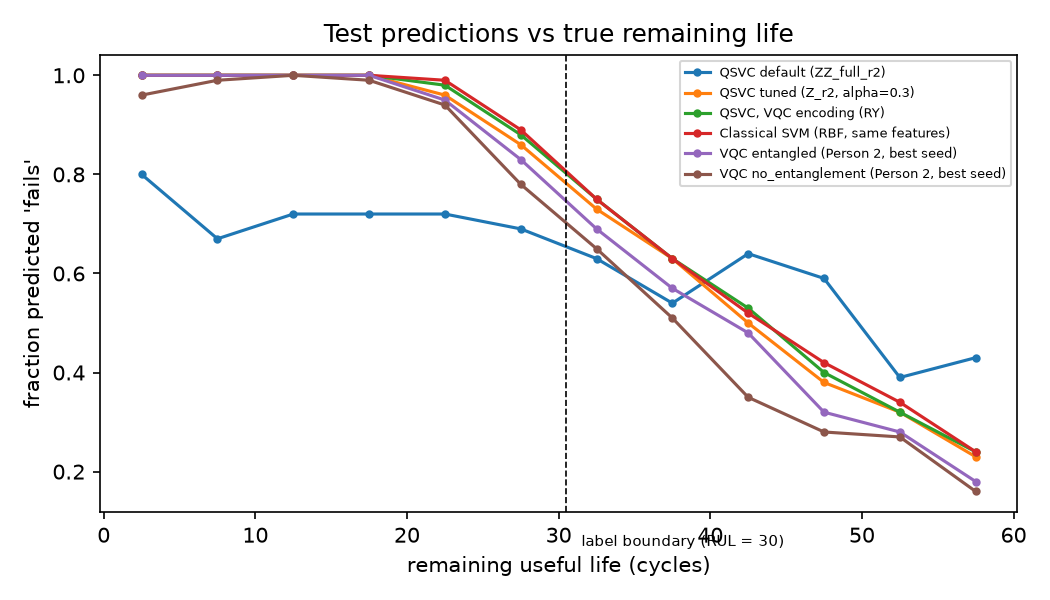
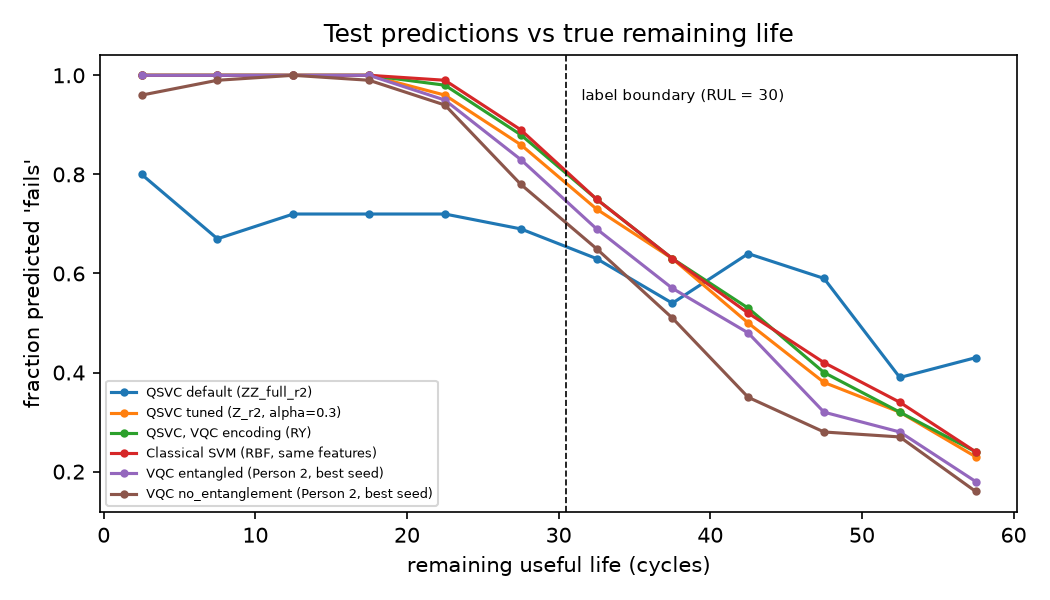
QSVC: review fixes before merge
- Fix overlapping figure labels; smaller kernel heatmap image.
- Avoid a duplicate comparison row if the tuned kernel is the RY encoding.
- Log a repo-relative output path instead of an absolute one.
- Note the VQC 5-seed means next to the best-seed rows.
- Re-ran with the pinned requirements.txt versions: all result CSVs identical.

Changed region(s): [[0.5486, 0.09, 0.9752, 0.33], [0.0914, 0.63, 0.4267, 0.87], [0.5486, 0.87, 0.701, 0.93]]

diff --git a/scripts/run_qsvc.py b/scripts/run_qsvc.py
@@ -179,7 +179,8 @@ def plot_grid(rows):
     ax2 = ax[1].twinx()
     ax2.plot(x, [r["k_mean"] for r in a1], "ro-")
     ax2.axhline(1 / 16, color="r", ls=":", lw=0.8)
-    ax2.text(len(x) - 0.5, 1 / 16, "Haar 1/2^n", color="r", fontsize=7, ha="right", va="bottom")
+    ax2.text(-0.4, 1 / 16, "Haar-random 1/2^n", color="r", fontsize=7, ha="left", va="bottom",
+             bbox=dict(facecolor="white", edgecolor="none", pad=1))
     ax[1].set_xticks(x, names, rotation=30, ha="right")
     ax[1].set_ylabel("kernel-target alignment (train)"); ax2.set_ylabel("mean off-diagonal kernel value", color="r")
     ax[1].set_title("Kernel quality")
@@ -209,8 +210,9 @@ def e2_compare(rows, kernels, X_tr, X_va, X_te, y_tr, y_va, y_te, units_te, rul_
     picks = {
         "QSVC default (ZZ_full_r2)": DEFAULT,
         f"QSVC tuned ({label(best['feature_map'], best['alpha'])})": (best["feature_map"], best["alpha"]),
-        "QSVC, VQC encoding (RY)": ("RY (VQC encoding)", 1.0),
     }
+    if (best["feature_map"], best["alpha"]) != ("RY (VQC encoding)", 1.0):  # avoid a duplicate row
+        picks["QSVC, VQC encoding (RY)"] = ("RY (VQC encoding)", 1.0)
     table, preds, scores = [], {}, {}
     for name, key in picks.items():
         K = kernels[key]
@@ -264,16 +266,16 @@ def e2_compare(rows, kernels, X_tr, X_va, X_te, y_tr, y_va, y_te, units_te, rul_
         a.set_xticks([]); a.set_yticks([])
     fig.colorbar(im, ax=ax, shrink=0.8)
     fig.suptitle("Training Gram matrices sorted by label (healthy | fails within 30 cycles)")
-    fig.savefig(FIG / "e2_kernel_heatmaps.png", dpi=150, bbox_inches="tight"); plt.close(fig)
+    fig.savefig(FIG / "e2_kernel_heatmaps.png", dpi=110, bbox_inches="tight"); plt.close(fig)
 
     bins = np.arange(0, 61, 5)
     fig, a = plt.subplots(figsize=(7, 4))
     for i, (name, p) in enumerate(preds.items()):
         flagged = [p[(rul_te >= lo) & (rul_te < lo + 5)].mean() for lo in bins[:-1]]
         a.plot(bins[:-1] + 2.5, flagged, "o-", ms=3, label=name, color=f"C{i}")
-    a.axvline(30.5, color="k", ls="--", lw=0.8); a.text(31.5, 0.05, "label boundary (RUL = 30)", fontsize=7)
+    a.axvline(30.5, color="k", ls="--", lw=0.8); a.text(31.5, 0.95, "label boundary (RUL = 30)", fontsize=7)
     a.set_xlabel("remaining useful life (cycles)"); a.set_ylabel("fraction predicted 'fails'")
-    a.set_title("Test predictions vs true remaining life"); a.legend(fontsize=6)
+    a.set_title("Test predictions vs true remaining life"); a.legend(fontsize=6, loc="lower left")
     fig.tight_layout(); fig.savefig(FIG / "e2_predicted_vs_rul.png", dpi=150); plt.close(fig)
 
     return {"tuned_choice": {"feature_map": tuned_key[0], "alpha": tuned_key[1]}, "table": table,
@@ -389,7 +391,7 @@ def main():
     summary["e4_shots"] = e4_shots(kernels, tuned_key, y_tr, y_va, y_te)
     with open(OUT / "summary.json", "w") as f:
         json.dump(summary, f, indent=2, default=lambda o: o.item() if hasattr(o, "item") else str(o))
-    log(f"done -> {OUT}")
+    log(f"done -> {OUT.relative_to(RESULTS_DIR.parent).as_posix()}/")
 
 
 if __name__ == "__main__":

diff --git a/results/qsvc/README.md b/results/qsvc/README.md
@@ -68,6 +68,8 @@ Rules: the "default" was fixed before seeing results. "Tuned" is the grid point 
 | VQC entangled (Person 2, best seed) | 0.956 [0.92, 0.99] | 27 | 286 | 0.791 [0.74, 0.85] | 0 |
 | VQC no entanglement (Person 2, best seed) | 0.934 [0.88, 0.98] | 41 | 256 | 0.796 [0.74, 0.86] | 5 |
 
+The VQC rows use Person 2's saved best-by-validation model (`results/vqc/best_*.npz`), so they can be compared with the QSVC on exactly the same rows. Their 5-seed means (`results/vqc/summary.csv`) are almost the same: F1 0.790 ± 0.009 (entangled) and 0.796 ± 0.000 (no entanglement). The QSVC is deterministic, so a single run is enough.
+
 Paired engine-bootstrap 95% CIs for the difference in F1:
 - Tuned QSVC − RBF SVM: [−0.003, +0.018]
 - Tuned QSVC − VQC entangled: [−0.022, +0.001]
